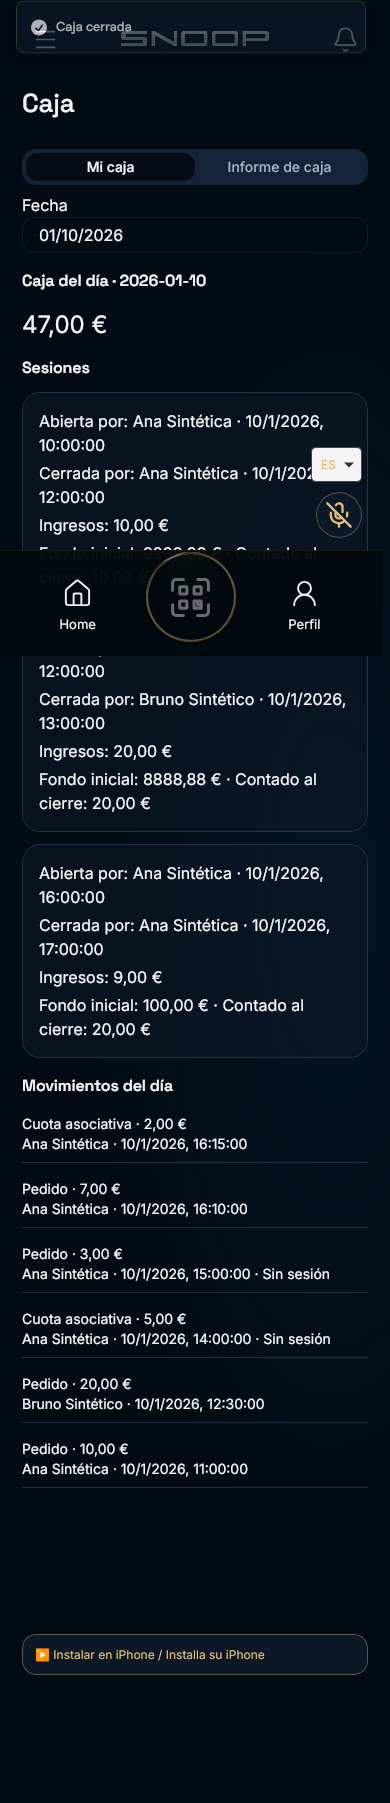
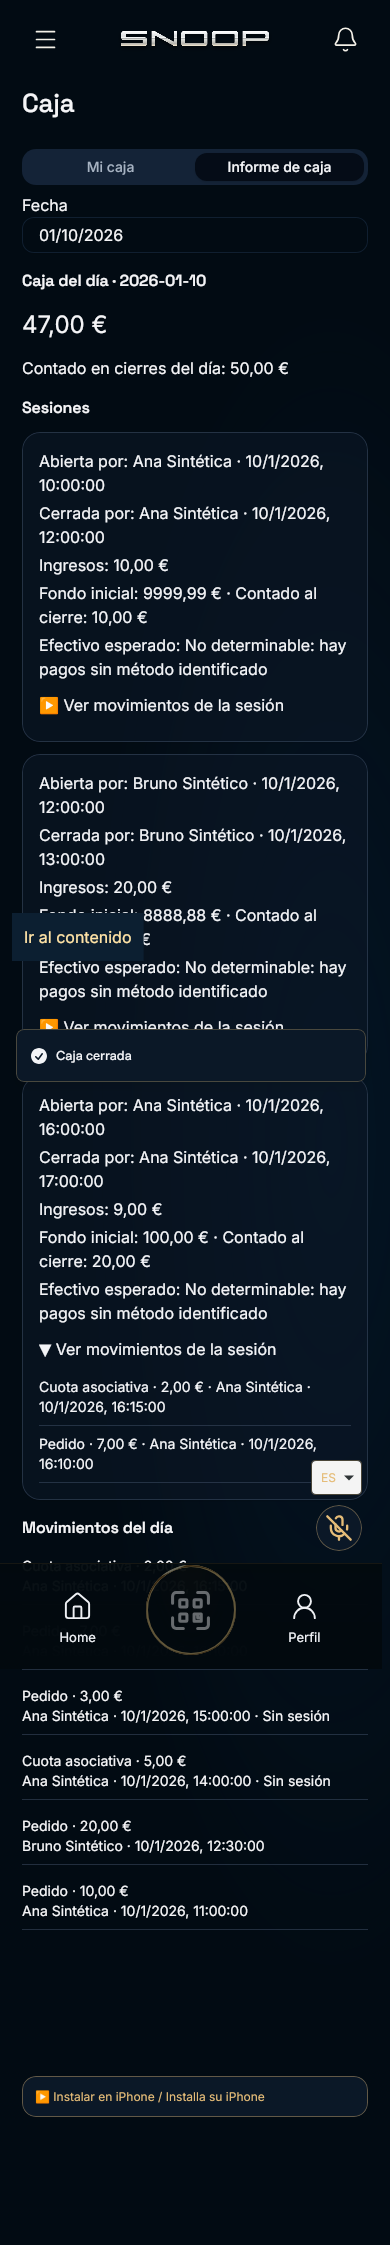
Reconcile administrative cash without assuming unknown payments are cash

diff --git a/src/routes/_authenticated/caja.tsx b/src/routes/_authenticated/caja.tsx
@@ -3,7 +3,14 @@ import { useEffect, useState } from "react";
 import { SnoopLayout } from "@/components/SnoopLayout";
 import { useAuth } from "@/hooks/useAuth";
 import { getCashReport, openCash, closeCash } from "@/lib/cash-sessions.functions";
-import { inCashDay, dayRevenue, sessionRevenue, type CashSession } from "@/lib/cash-sessions";
+import {
+  inCashDay,
+  dayRevenue,
+  sessionRevenue,
+  reconcileCash,
+  countedCashOnDay,
+  type CashSession,
+} from "@/lib/cash-sessions";
 import { parseCashCents } from "@/lib/member-administration";
 import { Tabs, TabsList, TabsTrigger, TabsContent } from "@/components/ui/tabs";
 import { Button } from "@/components/ui/button";
@@ -67,6 +74,7 @@ function Caja() {
   const session: CashSession | undefined = data?.sessions.find(
     (s: CashSession) => s.user_id === user?.id && s.status === "open",
   );
+  const reconciliation = session && data ? reconcileCash(session, data.movements) : null;
   async function submit(kind: "open" | "close") {
     if (busy || !can("use_cash") || !navigator.onLine) return;
     const cents = parseCashCents(kind === "open" ? opening : closing);
@@ -134,6 +142,18 @@ function Caja() {
                           Ingresos registrados:{" "}
                           <strong>{money(sessionRevenue(session, data.movements))}</strong>
                         </p>
+                        <p>Ingresos en efectivo: {money(reconciliation!.cash)}</p>
+                        <p>
+                          Efectivo esperado:{" "}
+                          {reconciliation!.expected === null
+                            ? "No determinable: hay pagos sin método identificado"
+                            : money(reconciliation!.expected)}
+                        </p>
+                        {reconciliation!.expected !== null && parseCashCents(closing) !== null && (
+                          <p>
+                            Diferencia: {money(parseCashCents(closing)! - reconciliation!.expected)}
+                          </p>
+                        )}
                         <label className="block">
                           Dinero contado (€)
                           <Input
@@ -188,6 +208,10 @@ function Caja() {
                     <p className="text-2xl" aria-label="Total del día">
                       {money(dayRevenue(data.movements, data.start, data.end))}
                     </p>
+                    <p>
+                      Contado en cierres del día:{" "}
+                      {money(countedCashOnDay(data.sessions, data.start, data.end))}
+                    </p>
                     <section aria-label="Sesiones de caja" className="space-y-3">
                       <h3>Sesiones</h3>
                       {data.sessions.length === 0 && <p>Sin sesiones este día.</p>}
@@ -208,6 +232,32 @@ function Caja() {
                               ? ` · Contado al cierre: ${money(s.closing_cash_cents)}`
                               : ""}
                           </p>
+                          <p>
+                            Efectivo esperado:{" "}
+                            {reconcileCash(s, data.movements).expected === null
+                              ? "No determinable: hay pagos sin método identificado"
+                              : money(reconcileCash(s, data.movements).expected!)}
+                          </p>
+                          {reconcileCash(s, data.movements).difference !== null && (
+                            <p>Diferencia: {money(reconcileCash(s, data.movements).difference!)}</p>
+                          )}
+                          {s.notes && <p>Notas: {s.notes}</p>}
+                          <details>
+                            <summary className="cursor-pointer py-2">
+                              Ver movimientos de la sesión
+                            </summary>
+                            {data.movements
+                              .filter((m: any) => m.session_id === s.id && m.by === s.user_id)
+                              .map((m: any) => (
+                                <p
+                                  key={`${m.source}:${m.id}`}
+                                  className="border-b border-border py-2 text-sm"
+                                >
+                                  {m.source === "fee" ? "Cuota asociativa" : "Pedido"} ·{" "}
+                                  {money(m.cents)} · {name(m.by)} · {time(m.at)}
+                                </p>
+                              ))}
+                          </details>
                         </Card>
                       ))}
                     </section>

diff --git a/tests/cash-reconciliation.test.ts b/tests/cash-reconciliation.test.ts
@@ -1,0 +1,74 @@
+import test from "node:test";
+import assert from "node:assert/strict";
+import {
+  reconcileCash,
+  countedCashOnDay,
+  dayRevenue,
+  type CashSession,
+  type CashMovement,
+} from "../src/lib/cash-sessions.ts";
+const session: CashSession = {
+  id: "s",
+  user_id: "a",
+  opened_at: "2026-11-07T22:00:00Z",
+  closed_at: "2026-11-08T02:00:00Z",
+  opening_cash_cents: 5000,
+  closing_cash_cents: 39500,
+  status: "closed",
+};
+const movement = (
+  id: string,
+  cents: number,
+  method: string | null,
+  at = "2026-11-08T00:30:00Z",
+): CashMovement => ({
+  id,
+  source: "fee",
+  at,
+  by: "a",
+  cents,
+  session_id: "s",
+  payment_method: method,
+});
+test("reconciliation separates float, cash, card, counted and difference", () => {
+  const entries = [movement("1", 35000, "cash"), movement("2", 20000, "card")];
+  assert.deepEqual(reconcileCash(session, entries), {
+    cash: 35000,
+    expected: 40000,
+    difference: -500,
+  });
+  assert.equal(dayRevenue(entries, "2026-11-07T23:00:00Z", "2026-11-08T23:00:00Z"), 55000);
+});
+test("unknown and other methods prevent invented cash balances", () => {
+  for (const method of [null, "other", "invalid"])
+    assert.deepEqual(
+      reconcileCash(session, [movement("1", 35000, "cash"), movement("2", 100, method)]),
+      { cash: 35000, expected: null, difference: null },
+    );
+});
+test("other employees and sessions do not enter a private reconciliation", () => {
+  const other = { ...movement("2", 99999, "cash"), by: "b" };
+  const outside = { ...movement("3", 99999, "cash"), session_id: null };
+  assert.deepEqual(reconcileCash(session, [movement("1", 35000, "cash"), other, outside]), {
+    cash: 35000,
+    expected: 40000,
+    difference: -500,
+  });
+});
+test("overnight day totals follow movement dates while session retains full interval", () => {
+  const entries = [
+    movement("1", 1000, "cash", "2026-11-07T22:30:00Z"),
+    movement("2", 2000, "cash"),
+  ];
+  assert.equal(dayRevenue(entries, "2026-11-07T23:00:00Z", "2026-11-08T23:00:00Z"), 2000);
+  assert.equal(reconcileCash(session, entries).expected, 8000);
+  assert.equal(
+    reconcileCash({ ...session, status: "open", closed_at: null }, entries).difference,
+    null,
+  );
+});
+
+test("counted money belongs only to closing day, never duplicated on overnight overlap", () => {
+  assert.equal(countedCashOnDay([session], "2026-11-06T23:00:00Z", "2026-11-07T23:00:00Z"), 0);
+  assert.equal(countedCashOnDay([session], "2026-11-07T23:00:00Z", "2026-11-08T23:00:00Z"), 39500);
+});

diff --git a/src/lib/cash-sessions.ts b/src/lib/cash-sessions.ts
@@ -67,3 +67,35 @@ export function inCashDay(m: CashMovement, start: string, end: string) {
   if (!Number.isFinite(at)) throw new Error("Fecha del movimiento no válida");
   return at >= Date.parse(start) && at < Date.parse(end);
 }
+
+/** Unknown payment methods never become assumed cash. Opening floats are balances, not revenue. */
+export function reconcileCash(session: CashSession, movements: CashMovement[]) {
+  const entries = movements.filter((m) => m.session_id === session.id && m.by === session.user_id);
+  const cash = entries.filter((m) => m.payment_method === "cash").reduce((n, m) => n + m.cents, 0);
+  const unknown = entries.some(
+    (m) => !["cash", "card", "transfer"].includes(m.payment_method ?? ""),
+  );
+  const expected = unknown ? null : session.opening_cash_cents + cash;
+  return {
+    cash,
+    expected,
+    difference:
+      expected !== null && session.status === "closed" && session.closing_cash_cents !== null
+        ? session.closing_cash_cents - expected
+        : null,
+  };
+}
+
+/** Count closing observations on their closing date, not on every day an overnight session overlaps. */
+export function countedCashOnDay(sessions: CashSession[], start: string, end: string) {
+  return sessions
+    .filter(
+      (s) =>
+        s.status === "closed" &&
+        s.closed_at !== null &&
+        Date.parse(s.closed_at) >= Date.parse(start) &&
+        Date.parse(s.closed_at) < Date.parse(end) &&
+        s.closing_cash_cents !== null,
+    )
+    .reduce((total, s) => total + s.closing_cash_cents!, 0);
+}

diff --git a/src/lib/cash-sessions.server.ts b/src/lib/cash-sessions.server.ts
@@ -42,7 +42,7 @@ export async function closeSession(
   if (error || !data) throw new Error("No se pudo cerrar la caja o ya está cerrada.");
   return { id: data.id };
 }
-export async function loadCash(client: any, scope: CashScope, day: string) {
+export async function loadCash(client: any, scope: CashScope, day: string, now = () => new Date()) {
   const { data: admin, error } = await client.rpc("is_current_user_club_admin", {
     _club_id: scope.clubId,
   });
@@ -76,10 +76,10 @@ export async function loadCash(client: any, scope: CashScope, day: string) {
   );
   // Full session intervals are needed for overnight sessions; day totals are filtered separately.
   const earliest = sessions.reduce((a: any, s: any) => (s.opened_at < a ? s.opened_at : a), start);
-  const latest = sessions.reduce(
-    (a: any, s: any) => (s.closed_at && s.closed_at > a ? s.closed_at : a),
-    end,
-  );
+  const latest = sessions.reduce((a: any, s: any) => {
+    const until = s.closed_at ?? now().toISOString();
+    return Date.parse(until) > Date.parse(a) ? until : a;
+  }, end);
   const orders = await all(() =>
     own(
       client

diff --git a/docs/CAJA_RECONCILIATION_RESULTS.md b/docs/CAJA_RECONCILIATION_RESULTS.md
@@ -1,0 +1,14 @@
+# Caja reconciliation — 2026-11-08
+
+Implemented in existing Caja screen only:
+- Known cash income, opening float, expected cash, counted cash and discrepancy remain separate.
+- Missing/other payment methods make expected cash and discrepancy indeterminate; historical orders are never assumed cash.
+- Closing observations belong only to their closing date; overnight overlapping sessions do not duplicate counted cash.
+- Expandable session movements show operation, amount, responsible employee and Madrid timestamp.
+- Open overnight sessions load their full interval through server time, with daily revenue still filtered by Madrid calendar day.
+
+Verification: 227/227 automatic tests PASS (includes isolated PostgreSQL security/audit tests), TypeScript PASS, production build PASS, client bundle secret scan PASS (67 artifacts). Chromium Samsung viewport and WebKit iPhone viewport PASS with synthetic authentication/API responses; screenshots in docs/screenshots/caja-simple-{samsung,iphone}.png. No physical-device or live-payment verification. Browser regression selects the session by its synthetic movement rather than positional ordering.
+
+No SQL migration required by these read-only reconciliation changes. No remote database, secrets, deployment, merge or Security PSG operations.
+
+Scope limitation: cannabis ordering/fulfilment, euro-to-weight checkout, merma and delivery stock updates were not implemented. Existing order/stock execution remains unchanged. Historical unknown payment methods were not backfilled. This is not completion of the entire requested checkout flow.
